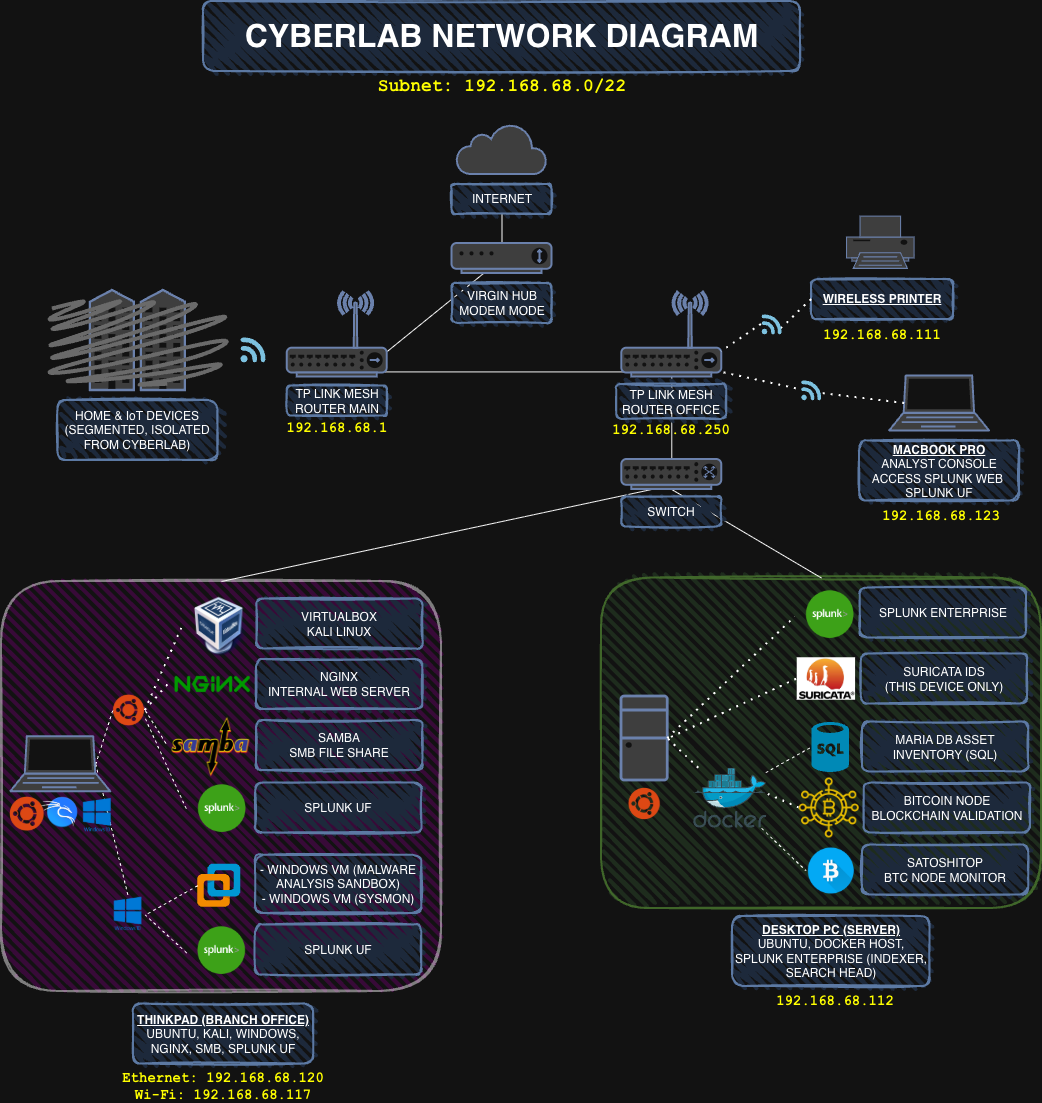
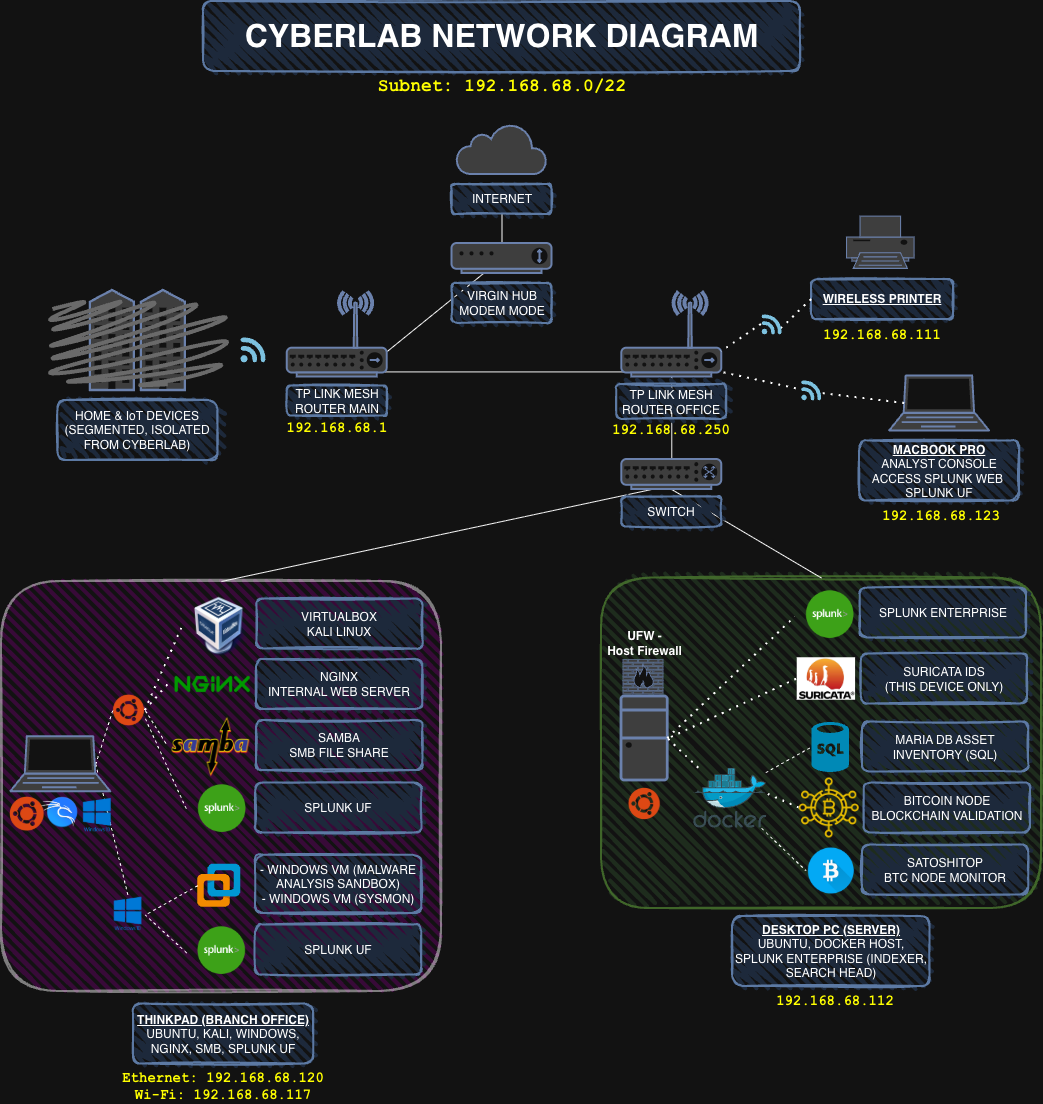
added some info to README and updated network diagram

diff --git a/README.md b/README.md
@@ -42,9 +42,10 @@ Cyberlab is a hands-on learning environment designed to:
     - **Splunk Enterprise Indexer** (active, receiving on TCP 9997)
     - **Suricata IDS** (monitoring live network traffic)
     - **UFW** - Host Firewall
-    - Docker Engine
-    - Bitcoin Pruned Node (container, fully synced)
-    - MariaDB container
+    - Docker (conatiners):
+        - Bitcoin Pruned Node (container, fully synced)
+        - MariaDB (container)
+        - Victim Web Service (nginx container on TCP 8080, used to generate Suricata HTTP telemetry for scanning/testing)
   - Purpose:
     - Acts as the central SOC server
     - Receives telemetry from all other lab endpoints
